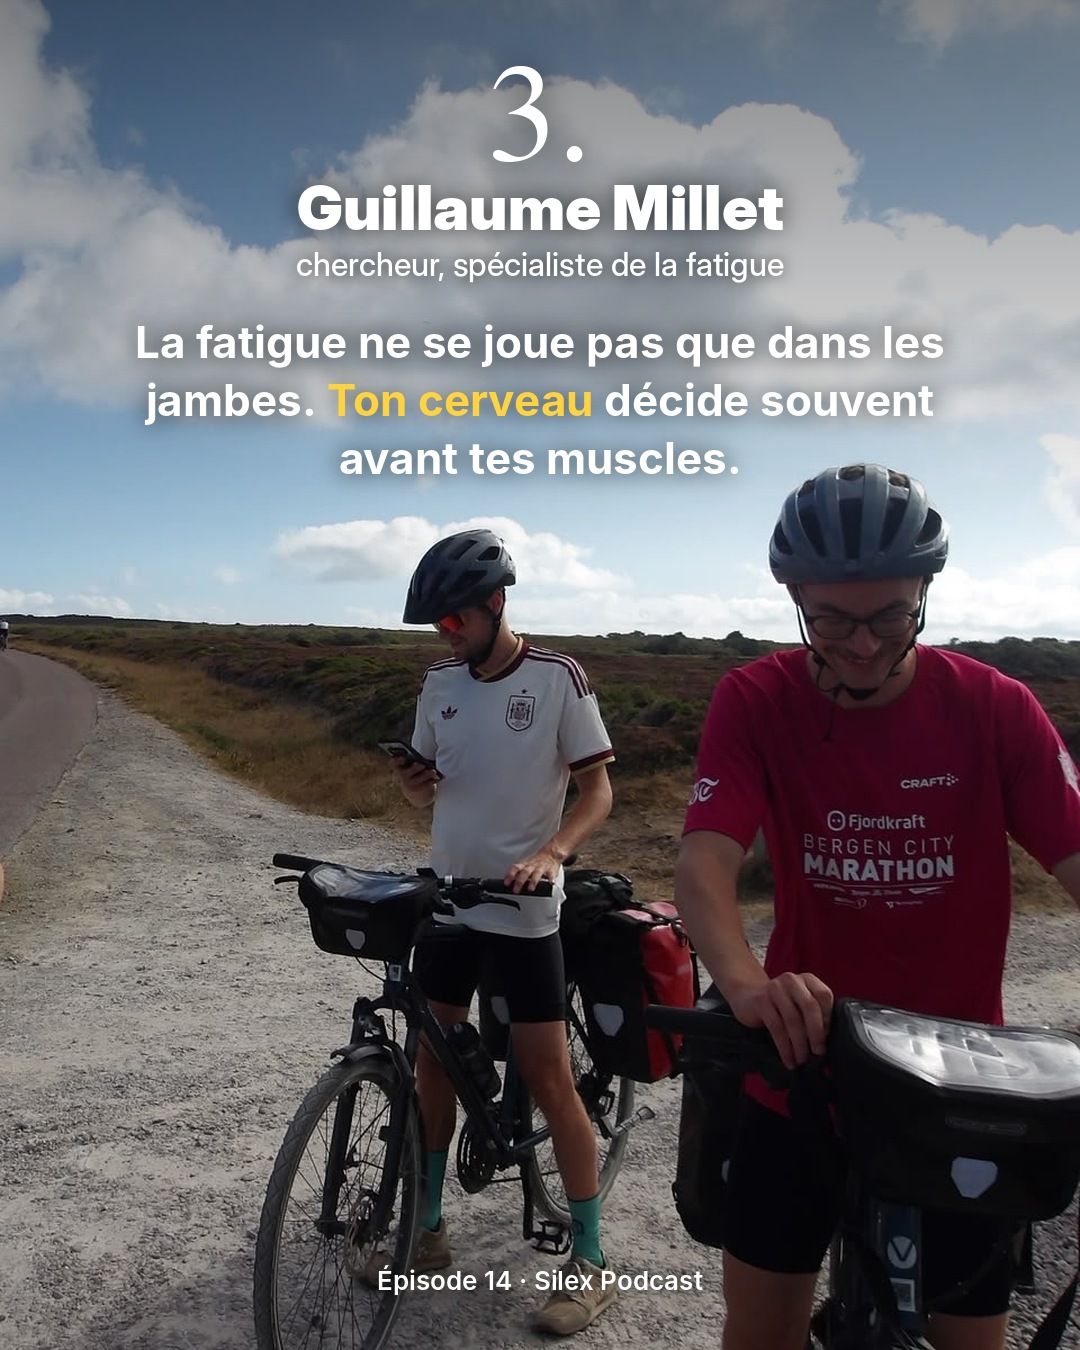
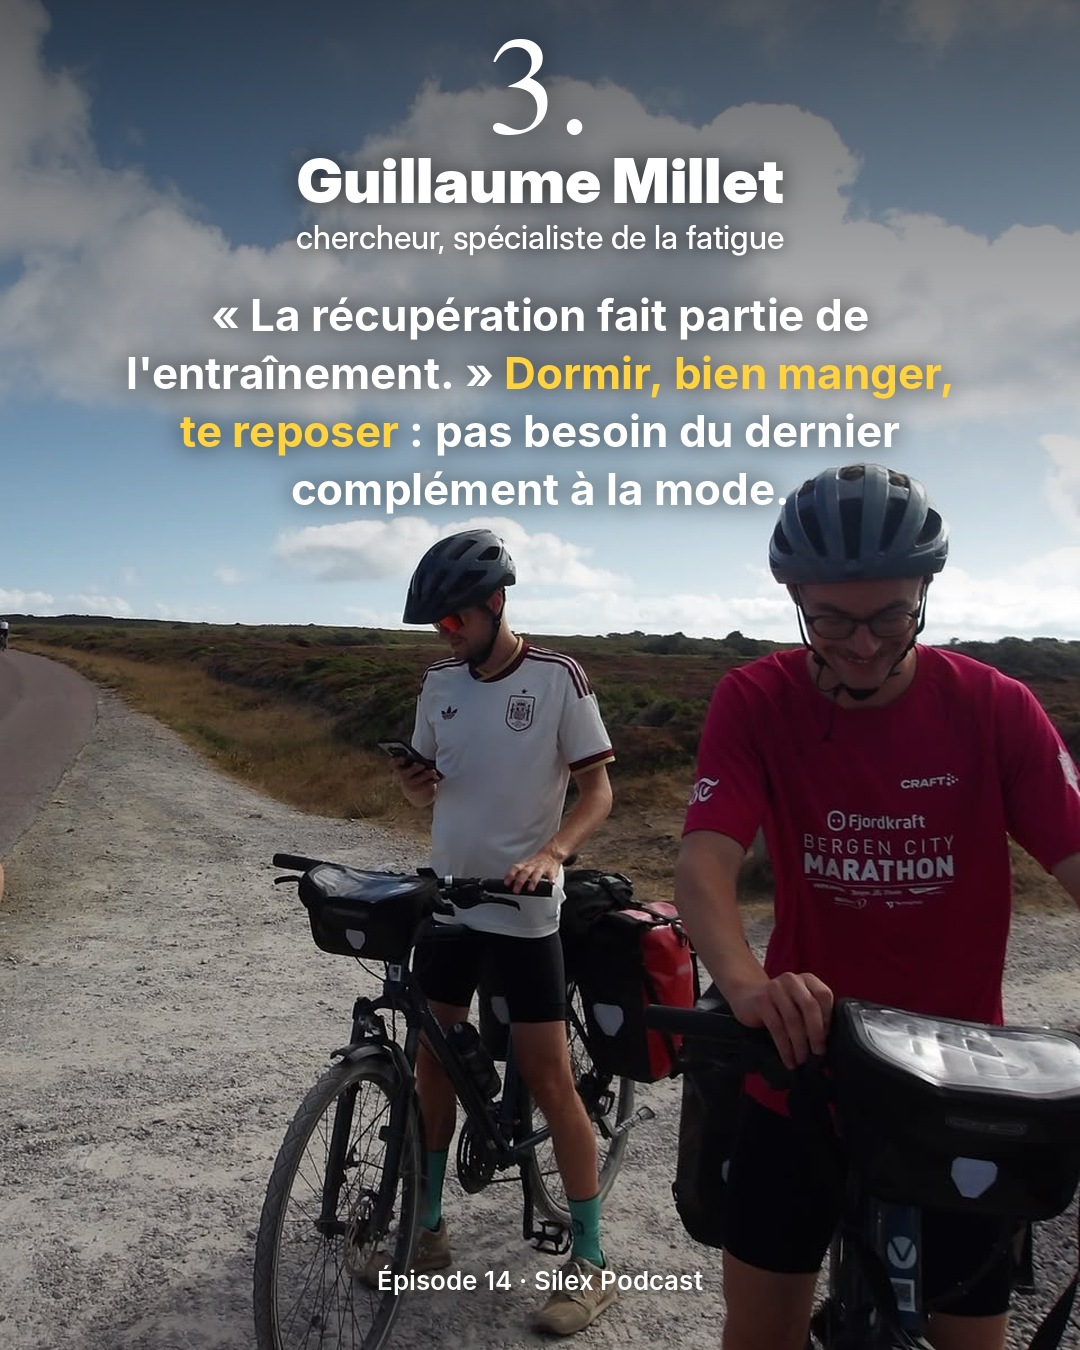
Carrousel Silex : leçon Guillaume Millet basée sur l'interview, idées de contenus
Claude-Session: https://claude.ai/code/session_01Bwd8fxM92NWrr3aL1Qd296

Changed region(s): [[0.0, 0.0, 1.0, 0.4044]]

diff --git a/carrousel-silex/make.py b/carrousel-silex/make.py
@@ -156,9 +156,9 @@ SLIDES = [
      'name': 'Blaise Dubois', 'role': 'fondateur de La Clinique du Coureur',
      'text': "Pas le temps ? **«\u00a05\u00a0minutes, ça\u00a0compte.\u00a0»** Même en jean, c'est 450 appuis par jambe. Alors cours **un peu, tous les jours**.",
      'credit': 'Épisode 12 · Silex Podcast'},
-    {'photo': 'velo-trio', 'fx': 0.62, 'n': 3, 'y': 0.03,
+    {'photo': 'velo-trio', 'fx': 0.62, 'n': 3, 'y': 0.01, 'shade': (0.45, 170),
      'name': 'Guillaume Millet', 'role': 'chercheur, spécialiste de la fatigue',
-     'text': "La fatigue ne se joue pas que dans les jambes. **Ton cerveau** décide souvent avant tes muscles.",
+     'text': "« La récupération fait partie de l'entraînement. » **Dormir, bien manger, te reposer** : pas besoin du dernier complément à la mode.",
      'credit': 'Épisode 14 · Silex Podcast'},
     {'photo': 'velo-lyon', 'n': 4, 'y': 0.04, 'shade': (0.5, 170),
      'name': 'Chloé Herbiet', 'role': "de sage-femme à championne d'Europe",

diff --git a/carrousel-silex/conseils-millet.md b/carrousel-silex/conseils-millet.md
@@ -1,0 +1,22 @@
+# Épisode 14 · Guillaume Millet : idées de contenus tirées de la transcription
+
+| # | Passage | Ce qu'il dit | Format | Accroche |
+|---|---|---|---|---|
+| 1 | 23:33–24:49 | « La récupération fait partie de l'entraînement. » Dormir, bien manger, se reposer : pas besoin du dernier complément à la mode. | Reel | « Le meilleur produit de récup ne coûte rien » |
+| 2 | 24:49–25:11 | Le footing de récupération reste une charge. Il faut savoir couper complètement, plusieurs semaines par an. | Reel | « Ton footing de récup n'est pas de la récup » |
+| 3 | 44:51–45:53 | Prendre des anti-inflammatoires en ultra, « c'est risquer sa peau, ou en tout cas ses reins ». Les antidouleurs masquent les signaux d'alarme. | Reel (prévention) | « Ce médicament que tu as dans ton sac de trail peut abîmer tes reins » |
+| 4 | 43:26–44:08 | Le « modèle de la chasse d'eau » : la perception de l'effort monte, et à un moment le cerveau dit stop, comme le flotteur d'une chasse d'eau. | Carrousel (schéma) | « Pourquoi ton cerveau t'arrête avant que ton corps lâche » |
+| 5 | 30:50–31:14 | La fatigue n'est pas que dans le muscle : le système nerveux commande moins bien la contraction (fatigue centrale). | Carrousel | « La fatigue, ce n'est pas que tes jambes » |
+| 6 | 38:07–38:27 | Sa biopsie : 86 % de fibres lentes dans les cuisses, et un record de 16 secondes au 100 m. | Reel court (humour) | « Un spécialiste de l'ultra court le 100 m en 16 secondes. Normal. » |
+| 7 | 27:02–27:14 | « On est très mauvais juge sur soi-même » : il faut un avis extérieur, même le coach du club. | Reel | « Pourquoi tu as besoin de quelqu'un pour te dire de lever le pied » |
+| 8 | 34:26–35:05 | Noter sa fatigue de 0 à 10, régulièrement, pour voir la tendance sur plusieurs jours. | Carrousel (outil) | « L'outil gratuit pour savoir si tu en fais trop » |
+| 9 | 35:39–37:35 | Variabilité cardiaque : la mesurer le matin au réveil, avec une ceinture, 5-6 minutes. Ce que donne la montre la nuit est moins fiable. | Carrousel | « Ta montre se trompe peut-être sur ta fatigue » |
+| 10 | 53:02–54:09 | Les critiques des élites qui abandonnent sur l'UTMB : ils se préservent pour d'autres objectifs, « ça les regarde ». | Reel (débat) | « Pourquoi les pros abandonnent l'UTMB (et pourquoi c'est OK) » |
+| 11 | 8:18–8:55 | Le projet 0 à 100 : 40 sédentaires préparés pour la CCC en 18 mois. | Reel ou story | « 40 personnes du canapé à 100 km en montagne » |
+
+## Conseils
+
+- Le passage 3 (anti-inflammatoires) est le plus utile et le plus partageable : beaucoup de traileurs le font sans savoir.
+- Le modèle de la chasse d'eau (passage 4) est parfait en carrousel illustré : simple, visuel, mémorable.
+- Guillaume dit ne pas aimer poster sur les réseaux mais « jouer le jeu » : propose-lui un post collaboratif, il a intérêt à relayer.
+- Il recommande lui-même de se méfier des comptes populaires peu rigoureux (27:53–28:19) : garde la nuance sur la fatigue.

diff --git a/carrousel-silex/legende.md b/carrousel-silex/legende.md
@@ -10,7 +10,7 @@ Et ce qui revient le plus souvent, ce n'est pas un plan d'entraînement secret :
 
 1. La VO2max ne gagne pas les courses (@[Kristian Blummenfelt])
 2. 5 minutes de course, ça compte (@[Blaise Dubois])
-3. La fatigue se joue aussi dans la tête (@[Guillaume Millet])
+3. La récupération fait partie de l'entraînement (@[Guillaume Millet])
 4. Construis ta base en aisance, pas à fond (@[Chloé Herbiet])
 5. N'attends pas d'être prêt (@[Dawa Sherpa])
 
@@ -34,7 +34,7 @@ Ces textes ont été écrits sans accès aux transcriptions. Vérifie que chacun
 
 - ✅ Slide 2 · Kristian Blummenfelt : validé avec la transcription (14:28–15:32, VO2max ~85 à Tokyo, 97 avant Paris).
 - ✅ Slide 3 · Blaise Dubois : validé avec la transcription (39:23–40:32, « 5 minutes, ça compte », 450 appuis par jambe à ~180 pas/min — Blaise dit 900, chiffre corrigé, stress quotidien).
-- [À VALIDER] Slide 4 · Guillaume Millet : « Ton cerveau décide souvent avant tes muscles. »
+- ✅ Slide 4 · Guillaume Millet : validé avec la transcription (23:33–25:11, « la récupération fait partie de l'entraînement », dormir et bien manger plutôt que le dernier complément).
 - ✅ Slide 5 · Chloé Herbiet : validé avec la transcription (33:28–34:00, « le plus important c'est la base », courir en aisance, « le lendemain on a envie d'y retourner »). L'ancienne leçon « un vrai boulot n'empêche pas d'aller loin » était contredite par l'interview : retirée.
 - [À VALIDER] Slide 6 · Dawa Sherpa : « Les pionniers n'attendaient pas d'être prêts. »
 - Les numéros d'épisode (10, 12, 14, 8, 35) viennent des miniatures YouTube.
